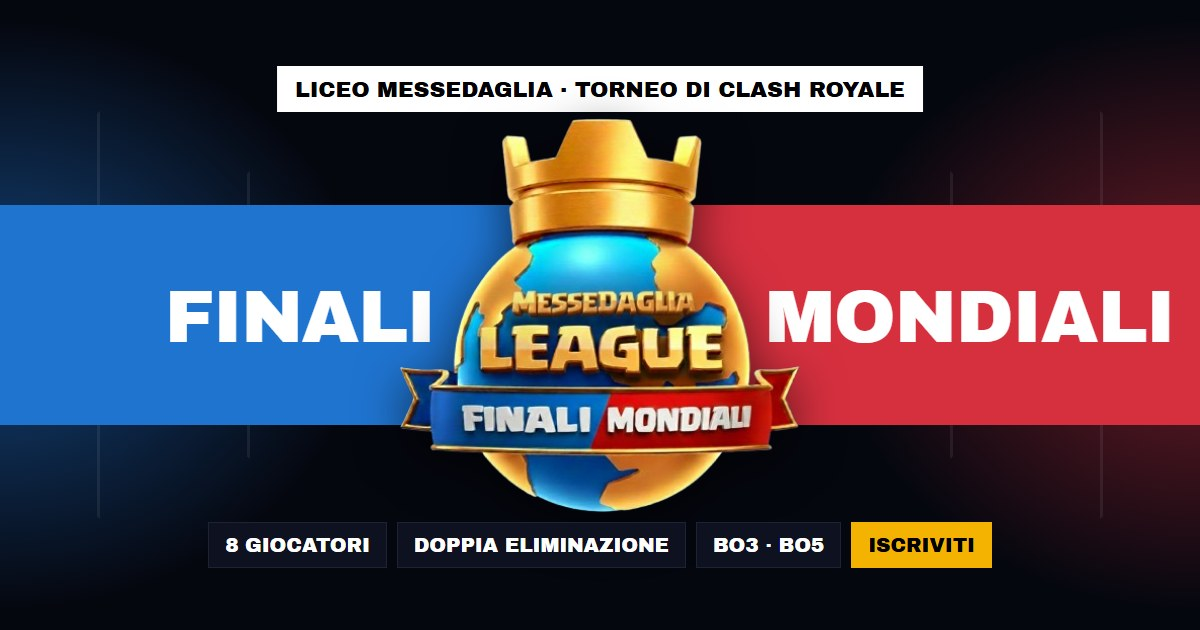
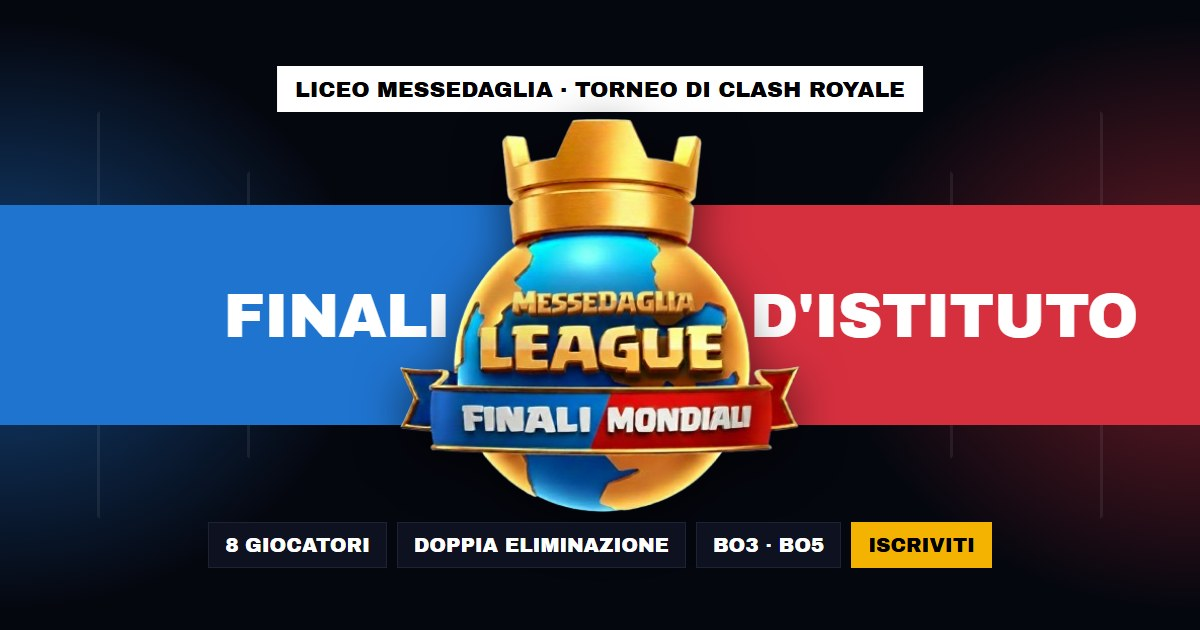
Add files via upload

Changed region(s): [[0.6167, 0.4524, 0.9867, 0.5429], [0.1233, 0.4524, 0.37, 0.5429]]

diff --git a/index.html b/index.html
@@ -8,13 +8,13 @@
 <!-- Anteprima quando il link viene condiviso (WhatsApp, Instagram, Telegram, Discord…) -->
 <meta property="og:type" content="website">
 <meta property="og:site_name" content="Messedaglia League">
-<meta property="og:title" content="Messedaglia League · Finali Mondiali">
+<meta property="og:title" content="Messedaglia League · Finali d'Istituto">
 <meta property="og:description" content="Il torneo di Clash Royale del Liceo Messedaglia: 8 giocatori, uno contro uno, doppia eliminazione e regola del duello. Iscriviti con la mail della scuola.">
 <meta property="og:url" content="https://messeleague.github.io/messedaglia-league/">
 <meta property="og:image" content="https://messeleague.github.io/messedaglia-league/img/anteprima.jpg">
 <meta property="og:image:width" content="1200">
 <meta property="og:image:height" content="630">
-<meta property="og:image:alt" content="Messedaglia League · Finali Mondiali">
+<meta property="og:image:alt" content="Messedaglia League · Finali d'Istituto">
 <meta property="og:locale" content="it_IT">
 <meta name="twitter:card" content="summary_large_image">
 <meta name="theme-color" content="#05070f">
@@ -261,8 +261,8 @@ a { color: var(--text); }
 .faq-item { background: var(--panel); }
 .faq-item summary { list-style: none; cursor: pointer; display: flex; align-items: center; gap: 16px; padding: 18px 20px; font: 400 var(--step-0, 1rem)/1.3 var(--display); text-transform: uppercase; }
 .faq-item summary::-webkit-details-marker { display: none; }
-.faq-item summary::after { content: "+"; margin-left: auto; flex: none; display: grid; place-items: center; width: 30px; height: 30px; background: var(--blue); font: 400 1.2rem/1 var(--display); transition: background .3s; }
-.faq-item[open] summary::after { content: "2"; background: var(--red); }
+.faq-item summary::after { content: ""; margin-left: auto; flex: none; width: 30px; height: 30px; background: linear-gradient(#fff, #fff) center / 12px 3px no-repeat, linear-gradient(#fff, #fff) center / 3px 12px no-repeat, var(--blue); transition: background-color .3s; }
+.faq-item[open] summary::after { background: linear-gradient(#fff, #fff) center / 12px 3px no-repeat, var(--red); }
 .faq-item summary:hover { background: #121830; }
 .faq-item[open] { box-shadow: inset 4px 0 0 var(--gold); }
 .faq-a { padding: 0 20px 20px; color: var(--muted); max-width: 72ch; }
@@ -422,8 +422,8 @@ footer a { color: var(--text); }
     <div class="hero-band">
       <h1>
         <span class="hero-word">Finali</span>
-        <img class="hero-logo" src="img/logo.png" alt="Messedaglia League, Finali Mondiali" width="395" height="389">
-        <span class="hero-word right">Mondiali</span>
+        <img class="hero-logo" src="img/logo.png" alt="Messedaglia League, Finali d'Istituto" width="395" height="389">
+        <span class="hero-word right">d'Istituto</span>
       </h1>
     </div>
     <p class="hero-sub">Otto giocatori della scuola, uno contro uno, in un tabellone a doppia eliminazione. Un mazzo nuovo a ogni round, fino alla Grand Final.</p>
@@ -438,7 +438,7 @@ footer a { color: var(--text); }
   <div class="fact"><dt class="chip gold">Quando</dt><dd>Da annunciare</dd></div>
   <div class="fact"><dt class="chip">Giocatori</dt><dd>8<small>tutti 1 contro 1</small></dd></div>
   <div class="fact"><dt class="chip">Tabellone</dt><dd>Doppia<small>eliminazione, con rivincita in Grand Final</small></dd></div>
-  <div class="fact"><dt class="chip">Serie</dt><dd>BO3<small>e BO5 nelle tre finali</small></dd></div>
+  <div class="fact"><dt class="chip">Match</dt><dd>BO3<small>e BO5 nelle tre finali</small></dd></div>
 </dl>
 
 <main>
@@ -446,8 +446,8 @@ footer a { color: var(--text); }
     <div class="wrap">
       <div class="head" data-reveal>
         <span class="chip">Il formato</span>
-        <h2 id="formato-title">Si vince la serie, non la singola partita</h2>
-        <p>Ogni sfida è una serie di partite tra due giocatori. Una giornata storta non basta a perdere, e una partita fortunata non basta a vincere.</p>
+        <h2 id="formato-title">Si vince il match, non la singola partita</h2>
+        <p>Ogni sfida è un match di più partite tra due giocatori. Una giornata storta non basta a perdere, e una partita fortunata non basta a vincere.</p>
       </div>
 
       <div class="formats" data-reveal="stagger">
@@ -457,7 +457,7 @@ footer a { color: var(--text); }
         </article>
         <article class="format three">
           <div class="format-top">BO3</div>
-          <div class="format-body"><h3>Al meglio delle 3</h3><p>Tutte le serie del tabellone. Vince chi arriva per primo a <strong>2 vittorie</strong>.</p></div>
+          <div class="format-body"><h3>Al meglio delle 3</h3><p>Tutti i match del tabellone. Vince chi arriva per primo a <strong>2 vittorie</strong>.</p></div>
         </article>
         <article class="format five">
           <div class="format-top">BO5</div>
@@ -469,13 +469,13 @@ footer a { color: var(--text); }
         <div class="sim-copy">
           <span class="chip">Prova tu</span>
           <h3>Ogni corona è un round</h3>
-          <p>In diretta il punteggio della serie è una fila di corone: bianca finché il round non si gioca, poi del colore di chi lo vince.</p>
+          <p>In diretta il punteggio del match è una fila di corone: bianca finché il round non si gioca, poi del colore di chi lo vince.</p>
           <ul class="legend">
             <li><svg viewBox="0 0 64 48" class="crown-empty" aria-hidden="true"><use href="#crown"/></svg><span><strong>Bianca:</strong> da giocare</span></li>
             <li><svg viewBox="0 0 64 48" class="crown-blue" aria-hidden="true"><use href="#crown"/></svg><span><strong>Blu:</strong> vinto dal giocatore blu</span></li>
             <li><svg viewBox="0 0 64 48" class="crown-red" aria-hidden="true"><use href="#crown"/></svg><span><strong>Rossa:</strong> vinto dal giocatore rosso</span></li>
           </ul>
-          <div class="controls" role="group" aria-label="Simula una serie">
+          <div class="controls" role="group" aria-label="Simula un match">
             <button type="button" class="btn" id="fmt-3" aria-pressed="false">BO3</button>
             <button type="button" class="btn on" id="fmt-5" aria-pressed="true">BO5</button>
             <button type="button" class="btn blue" id="win-blue">Vince il blu</button>
@@ -483,7 +483,7 @@ footer a { color: var(--text); }
             <button type="button" class="btn" id="reset">Ricomincia</button>
           </div>
         </div>
-        <div class="sim-board" aria-label="Punteggio della serie d'esempio">
+        <div class="sim-board" aria-label="Punteggio del match d'esempio">
           <div class="score"><span class="b" id="score-b">0</span><span class="r" id="score-r">0</span></div>
           <div class="crowns" id="crowns"></div>
           <p class="status" id="status" aria-live="polite"></p>
@@ -497,7 +497,7 @@ footer a { color: var(--text); }
       <div class="duel-copy" data-reveal>
         <span class="chip">Regola del duello</span>
         <h3 id="duello-title">Un mazzo nuovo a ogni round</h3>
-        <p>Ogni round è una normale partita 1 contro 1. Però nella stessa serie non puoi riusare nessuna carta che hai già giocato in un round precedente.</p>
+        <p>Ogni round è una normale partita 1 contro 1. Però nello stesso match non puoi riusare nessuna carta che hai già giocato in un round precedente.</p>
         <div class="bars">
           <div class="bar"><span class="chip">Carte diverse al massimo</span><b>24<small>in un BO3</small></b><b>40<small>in un BO5</small></b></div>
         </div>
@@ -516,12 +516,12 @@ footer a { color: var(--text); }
       <div class="head" data-reveal>
         <span class="chip">Il tabellone</span>
         <h2 id="tabellone-title">Otto giocatori, due vite</h2>
-        <p>Se perdi una serie nel Winners non sei fuori: scendi nel Losers e ti giochi la seconda possibilità. Alla seconda serie persa sei eliminato. Se la Grand Final la vince chi arriva dal Losers, si gioca la rivincita.</p>
+        <p>Se perdi un match nel Winners non sei fuori: scendi nel Losers e ti giochi la seconda possibilità. Al secondo match perso sei eliminato. Se la Grand Final la vince chi arriva dal Losers, si gioca la rivincita.</p>
       </div>
       <div class="bracket-scroll" tabindex="0" role="region" aria-label="Tabellone a doppia eliminazione">
         <div class="bk" id="bracket"></div>
       </div>
-      <p class="bracket-note">Le linee seguono chi vince; chi perde nel Winners scende nella casella "Perdente" del Losers. Tutte le serie sono BO3, le tre finali e l'eventuale rivincita sono BO5.</p>
+      <p class="bracket-note">Le linee seguono chi vince; chi perde nel Winners scende nella casella "Perdente" del Losers. Tutti i match sono BO3, le tre finali e l'eventuale rivincita sono BO5.</p>
     </div>
   </section>
 
@@ -529,7 +529,7 @@ footer a { color: var(--text); }
     <div class="wrap">
       <span class="chip gold">La posta in gioco</span>
       <h2 id="podio-title">Chi sarà il re del Messedaglia?</h2>
-      <p>Alla fine delle Finali Mondiali restano tre statue sul podio. Solo una è d'oro.</p>
+      <p>Alla fine delle Finali d'Istituto restano tre statue sul podio. Solo una è d'oro.</p>
       <div class="places" data-reveal="stagger" aria-label="Posti sul podio"><span class="p1">1° Oro</span><span class="p2">2° Argento</span><span class="p3">3° Bronzo</span></div>
     </div>
   </section>
@@ -539,7 +539,7 @@ footer a { color: var(--text); }
       <div class="head" data-reveal>
         <span class="chip">In arena</span>
         <h2 id="leghe-title">Dai Maestri ai Campioni Supremi</h2>
-        <p>Nel tabellone la lega non conta: vince chi vince la serie. Ma in diretta ognuno porta con sé il suo stemma.</p>
+        <p>Nel tabellone la lega non conta: vince chi vince il match. Ma in diretta ognuno porta con sé il suo stemma.</p>
       </div>
       <ul class="leagues" data-reveal="stagger">
         <li><img src="img/master_1.png" alt="" width="240" height="240"><span>Maestro I</span></li>
@@ -561,8 +561,8 @@ footer a { color: var(--text); }
       </div>
       <dl class="rules" data-reveal="stagger">
         <div class="rule"><dt class="chip blue">Partite</dt><dd>Tutte <strong>1 contro 1</strong>, amichevoli tra i due sfidanti, ognuno dal proprio account.</dd></div>
-        <div class="rule"><dt class="chip red">Serie</dt><dd><strong>BO3</strong> (prima a 2) in tutto il tabellone, <strong>BO5</strong> (prima a 3) nelle tre finali.</dd></div>
-        <div class="rule"><dt class="chip blue">Eliminazione</dt><dd>Doppia: sei fuori solo alla <strong>seconda serie persa</strong>. Vale anche in Grand Final: se la vince chi arriva dal Losers, <strong>si rigioca</strong>.</dd></div>
+        <div class="rule"><dt class="chip red">Match</dt><dd><strong>BO3</strong> (prima a 2) in tutto il tabellone, <strong>BO5</strong> (prima a 3) nelle tre finali.</dd></div>
+        <div class="rule"><dt class="chip blue">Eliminazione</dt><dd>Doppia: sei fuori solo al <strong>secondo match perso</strong>. Vale anche in Grand Final: se la vince chi arriva dal Losers, <strong>si rigioca</strong>.</dd></div>
         <div class="rule"><dt class="chip red">Mazzi</dt><dd>Regola del duello: ogni round si gioca con un mazzo nuovo, senza carte già usate. Chi viene beccato con una carta ripetuta <strong>perde subito il round</strong>.</dd></div>
         <div class="rule"><dt class="chip blue">Pareggi</dt><dd>Una partita finita in parità <strong>non conta</strong> e si rigioca.</dd></div>
         <div class="rule"><dt class="chip red">Fair play</dt><dd>Rispetto per avversari e pubblico, in chat e dal vivo.</dd></div>
@@ -600,11 +600,11 @@ footer a { color: var(--text); }
         </details>
         <details class="faq-item">
           <summary>Come funziona la regola del duello?</summary>
-          <div class="faq-a"><p>Ogni partita di una serie si gioca con un mazzo nuovo, e nessuna carta può comparire in due mazzi della stessa serie. Preparati quindi 3 mazzi diversi per le BO3 e 5 per le BO5. Una carta ripetuta fa perdere subito il round.</p></div>
+          <div class="faq-a"><p>Ogni partita di un match si gioca con un mazzo nuovo, e nessuna carta può comparire in due mazzi dello stesso match. Preparati quindi 3 mazzi diversi per le BO3 e 5 per le BO5. Una carta ripetuta fa perdere subito il round.</p></div>
         </details>
         <details class="faq-item">
-          <summary>Se perdo una serie sono fuori?</summary>
-          <div class="faq-a"><p>No, il tabellone è a doppia eliminazione: alla prima serie persa scendi nel Losers Bracket e continui a giocare. Sei fuori solo alla seconda sconfitta.</p></div>
+          <summary>Se perdo un match sono fuori?</summary>
+          <div class="faq-a"><p>No, il tabellone è a doppia eliminazione: al primo match perso scendi nel Losers Bracket e continui a giocare. Sei fuori solo alla seconda sconfitta.</p></div>
         </details>
         <details class="faq-item">
           <summary>Che succede se una partita finisce in pareggio?</summary>
@@ -650,7 +650,7 @@ footer a { color: var(--text); }
 
 <footer>
   <div class="wrap">
-    <strong>Messedaglia League · Finali Mondiali</strong>
+    <strong>Messedaglia League · Finali d'Istituto</strong>
     <p>Torneo studentesco del Liceo Messedaglia.</p>
     <p>Questo materiale non è ufficiale e non è approvato da Supercell. Per maggiori informazioni consulta la <a href="https://supercell.com/en/fan-content-policy/" target="_blank" rel="noopener">Fan Content Policy di Supercell</a>.</p>
   </div>

diff --git a/iscrizioni.html b/iscrizioni.html
@@ -4,17 +4,17 @@
 <meta charset="UTF-8">
 <meta name="viewport" content="width=device-width, initial-scale=1, viewport-fit=cover">
 <title>Iscrizioni · Messedaglia League</title>
-<meta name="description" content="Iscriviti alle Finali Mondiali della Messedaglia League, il torneo di Clash Royale del Liceo Messedaglia. Bastano la mail della scuola e il tuo tag giocatore.">
+<meta name="description" content="Iscriviti alle Finali d'Istituto della Messedaglia League, il torneo di Clash Royale del Liceo Messedaglia. Bastano la mail della scuola e il tuo tag giocatore.">
 <!-- Anteprima quando il link viene condiviso (WhatsApp, Instagram, Telegram, Discord…) -->
 <meta property="og:type" content="website">
 <meta property="og:site_name" content="Messedaglia League">
 <meta property="og:title" content="Iscrizioni · Messedaglia League">
-<meta property="og:description" content="Iscriviti alle Finali Mondiali della Messedaglia League, il torneo di Clash Royale del Liceo Messedaglia. Bastano la mail della scuola e il tuo tag giocatore.">
+<meta property="og:description" content="Iscriviti alle Finali d'Istituto della Messedaglia League, il torneo di Clash Royale del Liceo Messedaglia. Bastano la mail della scuola e il tuo tag giocatore.">
 <meta property="og:url" content="https://messeleague.github.io/messedaglia-league/iscrizioni.html">
 <meta property="og:image" content="https://messeleague.github.io/messedaglia-league/img/anteprima.jpg">
 <meta property="og:image:width" content="1200">
 <meta property="og:image:height" content="630">
-<meta property="og:image:alt" content="Messedaglia League · Finali Mondiali">
+<meta property="og:image:alt" content="Messedaglia League · Finali d'Istituto">
 <meta property="og:locale" content="it_IT">
 <meta name="twitter:card" content="summary_large_image">
 <meta name="theme-color" content="#05070f">
@@ -104,7 +104,7 @@
 <nav id="topbar" data-page="iscrizioni" aria-label="Sito"></nav>
 
 <main>
-  <span class="chip">Finali Mondiali</span>
+  <span class="chip">Finali d'Istituto</span>
   <h1>Iscrizioni</h1>
   <p class="lead">Ci si iscrive con l'account della scuola: il modulo si apre in una pagina di Google che fa entrare solo gli account <b style="color:#fff">nome.cognome@messedaglia.edu.it</b>.</p>
 
